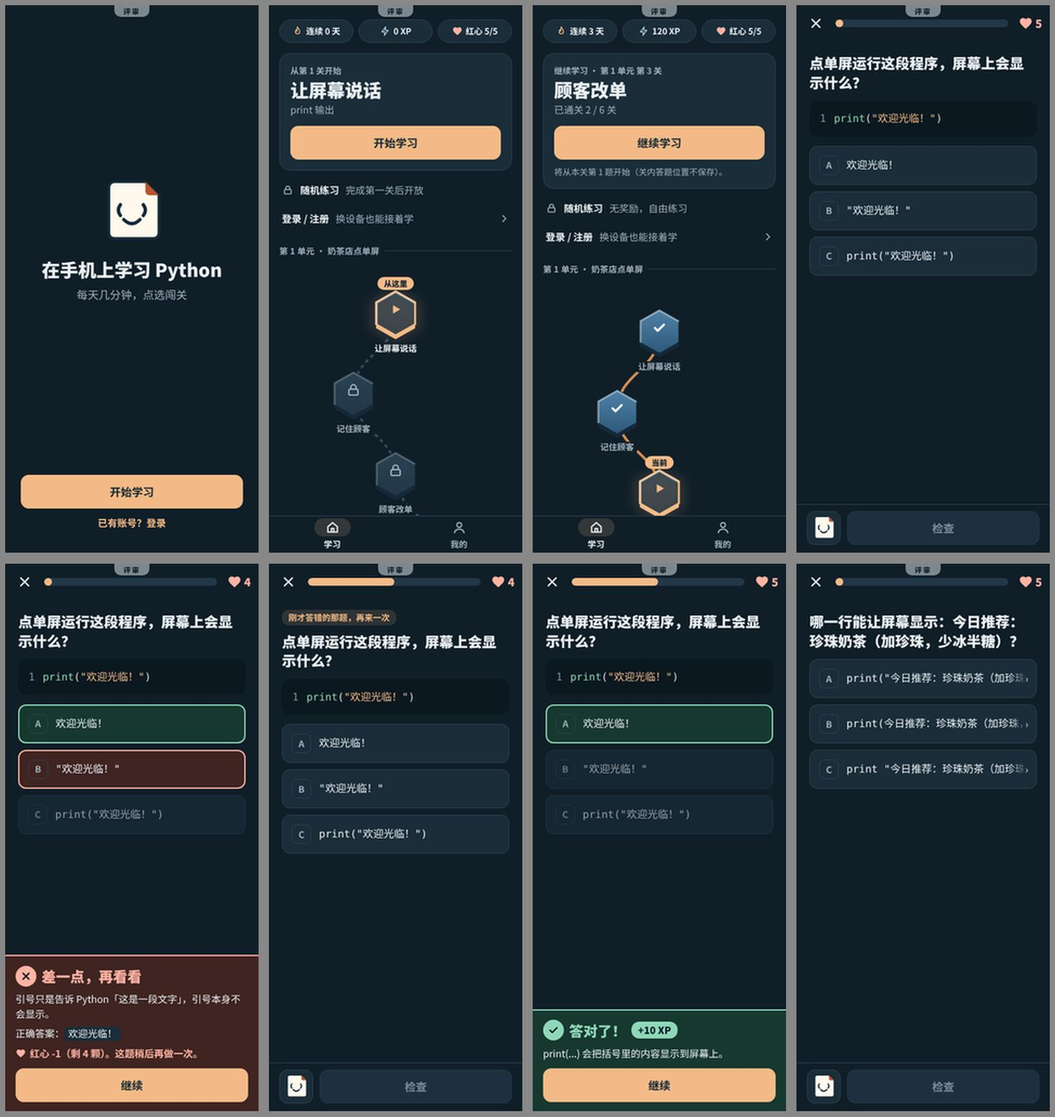
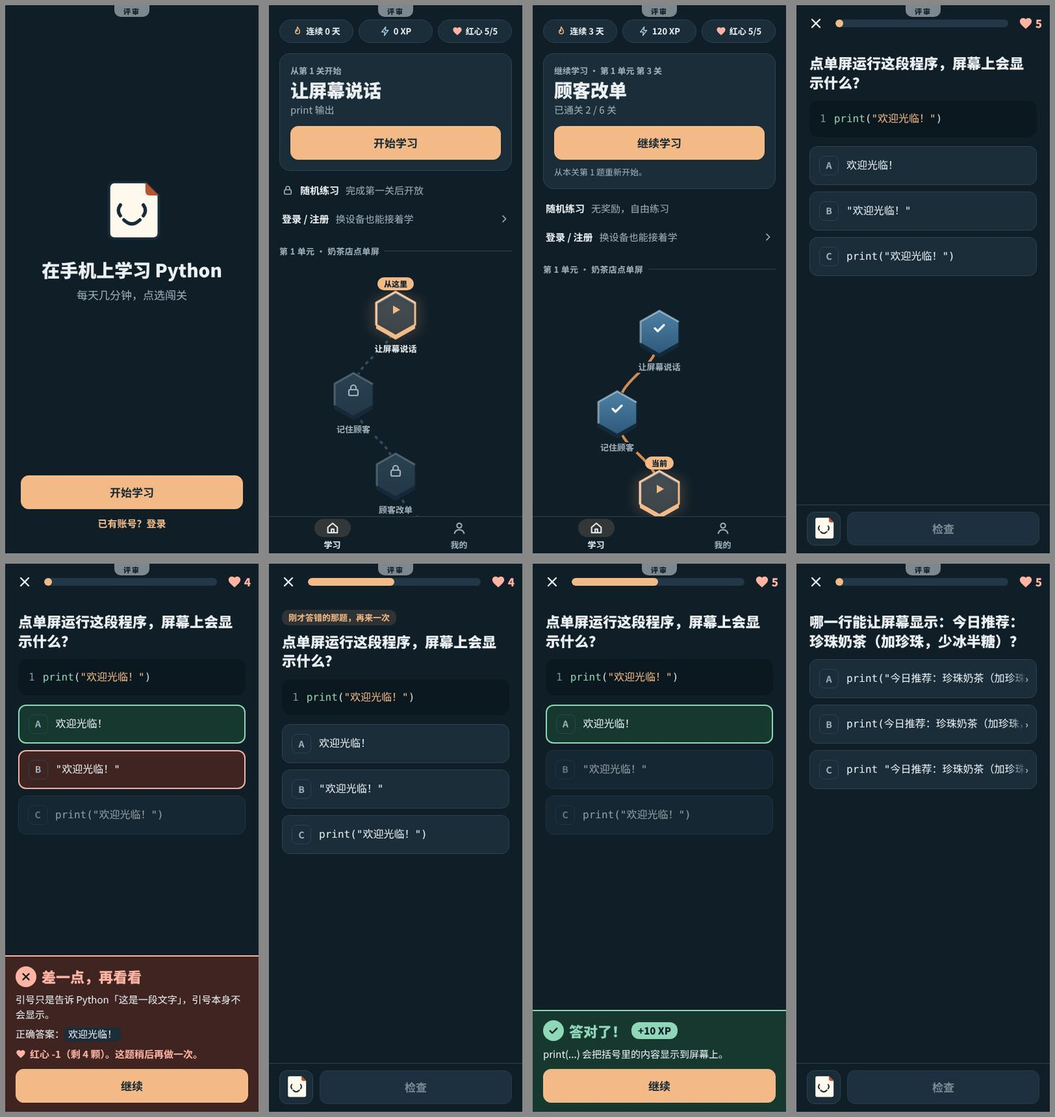
设计：流程原型按评审修订——欢迎直达首题、碎碎、320 线路对齐、红心不缩放、减少动态含按下、继续保留正式节奏
- 欢迎页默认直达首题；提示按钮 aria-label 与说明统一为「碎碎」
- 继续入口说明改为「从本关第 1 题重新开始」；老用户地图随机练习去掉锁图标
- 答错只留卡片抖动，红心直接更新；减少动态下按钮按下位移取消（改描边）
- 线路改为 x 拉伸、y 固定，实测 320/390 线路与节点中心偏差 0px，补 sheet-map-320.jpg
- 继续按钮保留正式节奏（120ms 揭示 / 280ms 开放），减少动态立即
- 文档：删除 XP 悬项，新增修订记录；检查 60 项全过

Claude-Session: https://claude.ai/code/session_01PV3FXumWa85dHsm4VFEBLY

diff --git a/spikes/2026-11-13-flow-prototype/index.html b/spikes/2026-11-13-flow-prototype/index.html
@@ -43,6 +43,7 @@ svg { display:block; }
 .btn:active:not(:disabled) { transform:translateY(1px); }
 .btn.primary { background:var(--copper); color:var(--on-copper); border-color:var(--copper); }
 .btn:disabled { background:var(--card2); color:var(--muted); border-color:var(--line); opacity:.75; cursor:default; }
+html.rm .btn:active:not(:disabled) { transform:none; outline:3px solid var(--copper); outline-offset:-3px; }
 .link { min-height:44px; color:var(--copper-text); font-weight:700; font-size:15px; padding:0 12px; }
 .icon-btn { width:44px; height:44px; display:grid; place-items:center; border-radius:12px; }
 .t13 { font-size:13px; font-weight:600; }
@@ -71,7 +72,8 @@ svg { display:block; }
 .unit { margin:18px 16px 0; font-size:13px; font-weight:700; color:var(--muted); display:flex; gap:8px; align-items:center; letter-spacing:.3px; }
 .unit::after { content:""; flex:1; height:1px; background:var(--line); }
 .path { position:relative; margin:0 auto; width:390px; max-width:100%; }
-.path svg.trace { position:absolute; inset:0; pointer-events:none; }
+.path svg.trace { position:absolute; left:0; top:0; width:100%; height:100%; pointer-events:none; }
+.path svg.trace path { vector-effect:non-scaling-stroke; }
 .node { position:absolute; width:76px; transform:translateX(-50%); display:flex; flex-direction:column; align-items:center; gap:4px; text-align:center; }
 .node .lab { background:var(--bg); padding:0 6px; border-radius:6px; font-size:13px; font-weight:700; line-height:1.3; white-space:nowrap; }
 .node.locked .lab { color:var(--muted); font-weight:600; }
@@ -97,8 +99,6 @@ html.rm .fill { transition:none; }
 @keyframes sweep { to { left:110%; } }
 html.rm .fill.sweep::after { display:none; }
 .hearts { display:flex; align-items:center; gap:4px; font-weight:800; font-size:17px; color:var(--bad); min-width:44px; justify-content:flex-end; }
-html:not(.rm) .hearts.lost svg { animation:heartlost .28s ease-out; }
-@keyframes heartlost { 30% { transform:scale(1.25); } 100% { transform:scale(1); } }
 .q { padding:12px 20px 16px; }
 .q h3 { margin:6px 0 14px; font-size:22px; line-height:1.35; font-weight:800; }
 .again { display:inline-block; font-size:13px; font-weight:700; color:var(--copper-text); background:color-mix(in srgb,var(--copper) 14%,transparent); padding:2px 10px; border-radius:10px; margin-bottom:4px; }
@@ -181,7 +181,7 @@ html.show-tags [data-tag=fixed]::after { background:var(--ok); color:var(--bg); 
 /* ===== 评审条目：状态 = 当前仍存在 / 已修复 / 本次提案（对照 main 92f57d9） ===== */
 const ITEMS = [
   { id:"W1", st:"proposal", t:"欢迎页压成一屏", d:"现状 3 屏、点 3 次才到地图；这里 1 屏 1 个主按钮。" },
-  { id:"W2", st:"proposal", t:"欢迎页文案", d:"「在手机上学习 Python」「每天几分钟，点选闯关」。不写「全程点选」「每关约 2 分钟」。名字仍叫小码（改名碎碎已批、未落地）。" },
+  { id:"W2", st:"proposal", t:"欢迎页文案", d:"「在手机上学习 Python」「每天几分钟，点选闯关」。不写「全程点选」「每关约 2 分钟」。角色名统一为「碎碎」（改名已批；正式版源码里仍是「小码」，落地时要一起改）。" },
   { id:"M1", st:"proposal", t:"地图「下一步」主卡", d:"新用户「开始学习」，老用户关名 +「继续学习」。关内位置 main 不保存（退出后从第 1 题重来），所以继续 = 当前关第 1 题；关内恢复未模拟。" },
   { id:"M2", st:"proposal", t:"随机练习 / 登录降级成一行", d:"现状：随机练习是吸顶整宽灰块，登录是虚线整宽卡。" },
   { id:"M3", st:"exists", t:"六边形路径（保留）", d:"沿用老大 11-04 方向；本次提案只加厚度、高光、当前关通电发光。" },
@@ -190,14 +190,14 @@ const ITEMS = [
   { id:"Q1", st:"fixed", t:"选项竖排整宽、代码不折行", d:"main 的 #60：.choices.code 单列 + 横向滚动，原型沿用，不算新成果。" },
   { id:"Q2", st:"proposal", t:"长代码选项的提示", d:"沿用 #60 的横向滚动，新增右侧渐变 + ›，提示还有内容（「长代码选项」可跳转查看）。" },
   { id:"Q3", st:"proposal", t:"铜橙 = 主要操作", d:"现状深色主按钮是浅蓝底（对比度 9.4，不低，但像禁用态且和整屏无主次）。原型主按钮、选中态、进度条都用铜橙：浅色白字 4.82:1，深色深字 9.24:1。" },
-  { id:"F1", st:"proposal", t:"答对：对勾弹出 + 进度条高光", d:"✓ 0→1.15→1（240ms）；进度条到位后一道高光扫过（300ms）。不拖延「继续」（立刻可点）。" },
-  { id:"F2", st:"exists", t:"XP 只在实际获得时出现", d:"main 现规则：每次答对 +10（复习 +5），含错题重做；答错不出现。原型按同一常量显示。重做是否再得 XP 以 app.js 1125 行的 addXp 为准，需程序员确认。" },
+  { id:"F1", st:"proposal", t:"答对：对勾弹出 + 进度条高光", d:"✓ 0→1.15→1（240ms）；进度条到位后一道高光扫过（300ms）。「继续」时序保留正式版：120ms 揭示结果、280ms 开放继续（减少动态下立即），本轮不改这项行为。" },
+  { id:"F2", st:"exists", t:"XP 只在实际获得时出现", d:"main 现规则：每次答对 +10（复习 +5），含错题重做；答错不出现。原型按同一常量显示。产品官已核对 app.js / storage.js：addXp 不按题去重，错题先答错未得分、随后答对正常 +10，无悬项。" },
   { id:"F3", st:"proposal", t:"连对提示不遮挡", d:"连对 ≥3 时在反馈头里加一枚「连对 N」小标，行内，不浮层。" },
   { id:"F4", st:"proposal", t:"答错措辞「差一点，再看看」", d:"现状标题「不对哦」。" },
   { id:"F5", st:"exists", t:"答错讲原因 + 正确答案 + 红心", d:"main 已有：错因（why）、「正确答案」、「红心 -1（剩 N 颗），这题稍后再做一次」。原型保留，不算新成果。" },
-  { id:"F6", st:"proposal", t:"答错只留一种主要动效", d:"选中卡抖 2 次（±5px，220ms）；碎碎只换静态表情，不弹跳。现状卡抖 3px 160ms，碎碎无反应。" },
+  { id:"F6", st:"proposal", t:"答错只留一种主要动效", d:"只留选中卡抖 2 次（±5px，220ms）；碎碎只换静态表情；红心直接更新数值，不再缩放（正式版现有红心缩放动画）。现状卡抖 3px 160ms。" },
   { id:"F7", st:"proposal", t:"继续按钮统一铜橙", d:"现状答错时「继续」是红色危险按钮；这里改铜橙，反馈色只用在面板描边和标题。" },
-  { id:"R1", st:"exists", t:"减少动态效果", d:"main 已有 prefers-reduced-motion。原型：开启后取消位移、缩放、飞行、发光呼吸、高光扫过，只保留颜色变化。" },
+  { id:"R1", st:"exists", t:"减少动态效果", d:"main 已有 prefers-reduced-motion。原型：开启后取消位移、缩放、飞行、发光呼吸、高光扫过、按钮按下的 1px 下移（按下改用描边表示），只保留颜色变化。" },
 ];
 const $ = (s, r=document) => r.querySelector(s);
 const ITEM = Object.fromEntries(ITEMS.map(i => [i.id, i]));
@@ -248,7 +248,7 @@ const XP_CORRECT = 10; /* 与 src/app.js 的 XP_CORRECT 一致 */
 const LESSONS = ["让屏幕说话","记住顾客","顾客改单","算价格","加一杯","结账小票"];
 
 /* ===== 状态 ===== */
-const S = { screen:"welcome", user:"new", welcomeGo:"map", queue:[], total:2, solved:0, hearts:5, xp:0, streak:0, sel:null, fb:null, retry:false, hint:false, forceStreak:false, theme:"auto", motion:"auto", tags:false, cur:null, cleared:0 };
+const S = { screen:"welcome", user:"new", welcomeGo:"task", queue:[], total:2, solved:0, hearts:5, xp:0, streak:0, sel:null, fb:null, retry:false, hint:false, forceStreak:false, theme:"auto", motion:"auto", tags:false, cur:null, cleared:0, ver:0, checking:false };
 const root = document.documentElement;
 function applyEnv() {
   const dark = S.theme==="dark" || (S.theme==="auto" && matchMedia("(prefers-color-scheme: dark)").matches);
@@ -262,7 +262,7 @@ let tt; function toast(m){ const e=$("#toast"); e.textContent=m; e.classList.add
 
 /* ===== 渲染 ===== */
 const app = $("#app");
-function go(screen) { S.screen = screen; render(); }
+function go(screen) { S.ver++; S.checking = false; S.screen = screen; render(); }
 function render() {
   applyEnv();
   const f = { welcome, map, lesson, done }[S.screen]; app.innerHTML = ""; f();
@@ -285,13 +285,13 @@ function map() {
   const hud = `<div class="hud"${tagAttr("M4")}>
     <div class="chip flame">${I.flame(16)}连续 ${old?3:0} 天</div><div class="chip bolt">${I.bolt(16)}${old?120:S.xp} XP</div><div class="chip heart">${I.heart(16)}红心 ${S.hearts}/5</div></div>`;
   const hero = old
-    ? `<div class="hero"${tagAttr("M1")}><div class="eyebrow">继续学习 · 第 1 单元 第 3 关</div><h2>${LESSONS[2]}</h2><div class="sub">已通关 2 / 6 关</div><button class="btn primary" id="go">继续学习</button><p class="note">将从本关第 1 题开始（关内答题位置不保存）。</p></div>`
+    ? `<div class="hero"${tagAttr("M1")}><div class="eyebrow">继续学习 · 第 1 单元 第 3 关</div><h2>${LESSONS[2]}</h2><div class="sub">已通关 2 / 6 关</div><button class="btn primary" id="go">继续学习</button><p class="note">从本关第 1 题重新开始。</p></div>`
     : `<div class="hero"${tagAttr("M1")}><div class="eyebrow">从第 1 关开始</div><h2>${LESSONS[0]}</h2><div class="sub">print 输出</div><button class="btn primary" id="go">开始学习</button></div>`;
   const rows = `<div class="rows"${tagAttr("M2")}>
-    <button class="row" id="prac"><span style="color:var(--muted)">${I.lock(18)}</span><b>随机练习</b><span>${old?"无奖励，自由练习":"完成第一关后开放"}</span><span class="sp"></span></button>
+    <button class="row" id="prac">${old?"":`<span style="color:var(--muted)">${I.lock(18)}</span>`}<b>随机练习</b><span>${old?"无奖励，自由练习":"完成第一关后开放"}</span><span class="sp"></span></button>
     <button class="row" id="log"><b>登录 / 注册</b><span>换设备也能接着学</span><span class="sp"></span>${I.chev(16)}</button></div>`;
   const xs = [195,130,195,260,195,130], dy = 124, y0 = 50, H = y0 + dy*5 + 130;
-  const pts = xs.map((x,i)=>[x, y0+i*dy+36]);
+  const pts = xs.map((x,i)=>[x, y0+i*dy+38]);
   const seg = (a,b)=>{ const m=(a[1]+b[1])/2; return `C ${a[0]} ${m}, ${b[0]} ${m}, ${b[0]} ${b[1]}`; };
   let full = `M ${pts[0][0]} ${pts[0][1]}`, lit = full;
   for (let i=1;i<pts.length;i++){ full += " "+seg(pts[i-1],pts[i]); if (i<=curIdx) lit += " "+seg(pts[i-1],pts[i]); }
@@ -299,7 +299,7 @@ function map() {
     return `<button class="node ${k}" data-i="${i}" style="left:${(xs[i]/390*100).toFixed(2)}%;top:${y0+i*dy}px" aria-label="${n}（${k==="done"?"已通关":k==="current"?"当前关":"未解锁"}）"><div class="hexwrap">${k==="current"?`<svg class="glow" viewBox="0 0 88 94"><polygon points="44,6 82,26 82,68 44,88 6,68 6,26"/></svg>`:""}${hex(k)}${k==="current"?`<span class="tag-now">${old?"当前":"从这里"}</span>`:""}</div><span class="lab">${n}</span></button>`; }).join("");
   const s = el(`<div class="screen"><div class="scroll">${hud}${hero}${rows}
     <div class="unit"${tagAttr("M5")}>第 1 单元 · 奶茶店点单屏</div>
-    <div class="path" style="height:${H}px"${tagAttr("M3")}><svg class="trace" viewBox="0 0 390 ${H}" preserveAspectRatio="xMidYMin meet" aria-hidden="true">
+    <div class="path" style="height:${H}px"${tagAttr("M3")}><svg class="trace" viewBox="0 0 390 ${H}" preserveAspectRatio="none" aria-hidden="true">
       <path d="${full}" fill="none" stroke="var(--trace)" stroke-width="4" stroke-dasharray="2 9" stroke-linecap="round"/>
       ${curIdx>0?`<path d="${lit}" fill="none" stroke="var(--trace-on)" stroke-width="4" stroke-linecap="round"/>`:""}
       ${pts.map(p=>`<circle cx="${p[0]}" cy="${p[1]}" r="0"/>`).join("")}</svg>${nodes}</div></div>
@@ -320,13 +320,13 @@ function startLesson(which) {
 function lesson() {
   const key = S.fb ? S.fb.key : S.queue[0]; if (!key) return go("done");
   const q = Q[key], pct = Math.round(S.solved / S.total * 100); const prev = S.prevPct!=null && S.prevPct!==pct ? S.prevPct : pct; S.prevPct = null;
-  const fb = S.fb;
+  const fb = S.checking ? null : S.fb;
   const opts = q.opts.map((o,i)=>{
     let cls = "choice"; if (fb) { if (o.ok) cls += " right"; else if (i===fb.picked) cls += " wrong"; else cls += " dim"; } else if (i===S.sel) cls += " sel";
     return `<button class="${cls}" data-i="${i}" ${fb?"disabled":""} aria-label="选项 ${"ABC"[i]}：${o.t.replace(/\n/g," 换行 ")}"><span class="abc">${"ABC"[i]}</span><span class="opt"><pre>${esc(o.t)}</pre></span><span class="fade" aria-hidden="true">›</span></button>`; }).join("");
   const code = q.code ? `<div class="code"><div class="ln">${q.code.split("\n").map((_,i)=>i+1).join("\n").replace(/\n/g,"<br>")}</div><pre>${hl(q.code)}</pre></div>` : "";
   const mood = fb && !fb.ok ? "care" : "happy";
-  const foot = fb ? feedbar() : `<div class="lessonfoot"><button class="mascot" id="hint" aria-label="让小码给个提示">${mascot(40, mood)}</button><button class="btn primary" id="check" ${S.sel==null?"disabled":""}${tagAttr("Q3")}>检查</button></div>`;
+  const foot = fb ? feedbar() : `<div class="lessonfoot"><button class="mascot" id="hint" aria-label="让碎碎给个提示">${mascot(40, mood)}</button><button class="btn primary" id="check" ${S.sel==null||S.checking?"disabled":""}${tagAttr("Q3")}>${S.checking?"检查中":"检查"}</button></div>`;
   const s = el(`<div class="screen"><header class="lessonbar"><button class="icon-btn" id="x" aria-label="退出本关">${I.close()}</button>
     <div class="progress" role="progressbar" aria-valuenow="${pct}" aria-valuemin="0" aria-valuemax="100"><div class="fill ${S.sweepNow?"sweep":""}" style="width:${Math.max(4,prev)}%"${tagAttr("F1")}></div></div>
     <span class="hearts ${S.lostNow?"lost":""}" aria-label="红心 ${S.hearts}">${I.heart(22)}${S.hearts}</span></header>
@@ -335,7 +335,7 @@ function lesson() {
   S.sweepNow = false; S.lostNow = false;
   app.append(s);
   if (prev!==pct) requestAnimationFrame(()=>requestAnimationFrame(()=>{ const f=$(".fill",s); if(f) f.style.width=Math.max(4,pct)+"%"; }));
-  s.querySelectorAll(".choice").forEach(b=>b.onclick=()=>{ if (S.fb) return; S.sel=+b.dataset.i; lesson_re(); });
+  s.querySelectorAll(".choice").forEach(b=>b.onclick=()=>{ if (S.fb||S.checking) return; S.sel=+b.dataset.i; lesson_re(); });
   // 长代码选项：内容比盒子宽时显示右侧渐变提示，滚到头就隐藏
   s.querySelectorAll(".choice").forEach(b=>{ const o=b.querySelector(".opt"); const upd=()=>b.classList.toggle("more", o.scrollWidth>o.clientWidth+2 && o.scrollLeft+o.clientWidth<o.scrollWidth-2); upd(); o.addEventListener("scroll",upd,{passive:true}); requestAnimationFrame(upd); });
   $("#x",s).onclick = () => go("map");
@@ -351,7 +351,12 @@ function check(key) {
   else { S.hearts--; S.streak = 0; S.queue.push(key); S.lostNow = true; }
   S.queue.shift();
   S.fb = { key, ok, picked:S.sel, why:o.why, xp: ok?XP_CORRECT:0, streak:S.streak, correct:q.opts.find(x=>x.ok).t };
-  lesson_re();
+  /* 时序对照正式版 app.js：点「检查」→ 120ms 揭示结果 → 280ms 开放「继续」；减少动态效果下立即 */
+  const rmNow = root.classList.contains("rm"), ver = ++S.ver;
+  if (rmNow || S.instant) { S.fb.ready = true; return lesson_re(); }
+  S.checking = true; lesson_re();
+  setTimeout(()=>{ if (S.ver!==ver) return; S.checking = false; lesson_re(); }, 120);
+  setTimeout(()=>{ if (S.ver!==ver || !S.fb) return; S.fb.ready = true; const c=$("#cont",app); if (c) c.disabled = false; }, 280);
 }
 function feedbar() {
   const f=S.fb, last = S.queue.length===0;
@@ -359,10 +364,10 @@ function feedbar() {
     <div class="fb-head"><span class="fb-ico">${f.ok?I.check(18):I.cross(18)}</span>${f.ok?"答对了！":"差一点，再看看"}${f.ok?`<span class="fb-xp"${tagAttr("F2")}>+${f.xp} XP</span>`:""}${f.ok&&f.streak>=3?`<span class="fb-streak"${tagAttr("F3")}>连对 ${f.streak}</span>`:""}</div>
     <p>${f.why}</p>
     ${f.ok?"":`<p${tagAttr("F5")}>正确答案：<code>${esc(f.correct)}</code></p><p class="heartline">${I.heart(16)}红心 -1（剩 ${S.hearts} 颗）。这题稍后再做一次。</p>`}
-    <button class="btn primary" id="cont"${tagAttr("F7")}>${last?"完成本关":"继续"}</button></div>`;
+    <button class="btn primary" id="cont" ${f.ready?"":"disabled"}${tagAttr("F7")}>${last?"完成本关":"继续"}</button></div>`;
 }
 function next() {
-  const wasWrong = S.fb && !S.fb.ok; S.fb=null; S.sel=null; S.hint=false;
+  S.ver++; S.checking=false; const wasWrong = S.fb && !S.fb.ok; S.fb=null; S.sel=null; S.hint=false;
   S.retry = !!S.queue.length && S.queue[0]==="q1" && S.queue.length===1 && S.solved>=1 && !S.demo;
   if (!S.queue.length) return go("done");
   lesson_re();
@@ -382,8 +387,8 @@ function jump(name) {
   if (name==="map-old") { S.user="old"; S.hearts=5; return go("map"); }
   if (name==="q1") return startLesson();
   if (name==="long") return startLesson("ql");
-  if (name==="wrong") { startLesson(); S.sel=1; check("q1"); return; }
-  if (name==="right") { startLesson(); S.sel=0; check("q1"); return; }
+  if (name==="wrong") { startLesson(); S.sel=1; S.instant=true; check("q1"); S.instant=false; return; }
+  if (name==="right") { startLesson(); S.sel=0; S.instant=true; check("q1"); S.instant=false; return; }
   if (name==="retry") { S.queue=["q1"]; S.total=2; S.solved=1; S.hearts=4; S.retry=true; S.demo=false; S.fb=null; S.sel=null; return go("lesson"); }
   if (name==="done") return go("done");
 }
@@ -394,7 +399,7 @@ function rv() {
   ${seg("主题","theme",[["auto","跟随系统"],["light","浅色"],["dark","深色"]])}
   ${seg("减少动态效果","motion",[["auto","跟随系统"],["on","开"],["off","关"]])}
   ${seg("标注（每项：本次提案 / 仍存在 / 已修复）","tags",[[true,"显示"],[false,"隐藏"]])}
-  ${seg("欢迎页按钮去向","welcomeGo",[["map","先到地图（按派单流程）"],["task","直达首题（W1 的更短方案）"]])}
+  ${seg("欢迎页按钮去向","welcomeGo",[["task","直达首题（产品官 01:12 已定，默认）"],["map","先到地图（对照）"]])}
   ${seg("模拟连对（下次答对显示「连对 3」）","forceStreak",[[true,"开"],[false,"关"]])}
   <h4>条目与状态（对照 main 92f57d9）</h4><div class="legend">${legend}</div>`;
   $("#rv").querySelectorAll("[data-j]").forEach(b=>b.onclick=()=>jump(b.dataset.j));
@@ -406,7 +411,7 @@ $("#rvOpen").onclick = openRv; $("#rvScrim").onclick = e => { if (e.target.id===
 /* 地址参数：?s=welcome|map-new|map-old|q1|wrong|retry|right|long|done  &theme=dark  &motion=on  &tags=1  （截图和评审直达用） */
 { const p = new URLSearchParams(location.search);
   if (p.get("theme")) S.theme = p.get("theme"); if (p.get("motion")) S.motion = p.get("motion"); if (p.get("tags")) S.tags = true;
-  if (p.get("streak")) S.forceStreak = true; if (p.get("go")==="task") S.welcomeGo = "task";
+  if (p.get("streak")) S.forceStreak = true; if (p.get("go")==="map") S.welcomeGo = "map";
   render(); if (p.get("s")) jump(p.get("s")); }
 window.ITEMS = ITEMS;
 </script>

diff --git a/docs/design/flow-prototype-2026-11-13.md b/docs/design/flow-prototype-2026-11-13.md
@@ -1,5 +1,7 @@
 # 可点流程原型（设计师，2026-11-13）
 
+> 版本：首轮评审（产品官 01:12）后的修订版。首轮 SHA `226a050`。
+
 主责：设计师（Claude Sonnet）。派单：产品官 2026-11-13 00:59。范围（老大已批）：评估报告 `docs/design/fable-review-2026-11-12.md` 的「一.1–5、二.1–3」，保留六边形节点。
 **只做界面和交互的原型，不碰业务代码、不改 XP / 红心 / 连续天数 / 解锁规则。正式采用哪些，等产品官评审原型后定。**
 
@@ -15,15 +17,15 @@
 
 ## 流程（按派单）
 欢迎 → 地图 → 首题 → 答错 → （继续）第 2 题答对 → 重做刚才答错的那题答对 → 通关占位 → 回地图。
-- **「重试答对」按现行规则做成「错题排到最后再做一次」**（`app.js` 的 `run.queue.push(idx)`），所以重做出现在第 2 题之后，不是答错后立刻重试。如果产品官要「答错后立刻重试」，那是规则改动，要老大同意并写进 SPEC 决策记录。
-- 欢迎页按钮默认去地图；面板里可切成「直达首题」（W1 更短的方案，少点一次）。
+- **错题按现行规则「排到本关末尾再做」**（`app.js` 的 `run.queue.push(idx)`，产品官 01:12 已定保持），所以重做出现在第 2 题之后。
+- **欢迎页「开始学习」默认直达首个学习任务**（产品官 01:12 已定）；地图用于退出关卡、完成学习后看路线。评审面板里可切成「先到地图」做对照。
 - 通关页不在本轮范围，只放占位。
 
 ## 逐项状态（对照 main `92f57d9`）
 | 编号 | 状态 | 项 | 说明 |
 |---|---|---|---|
 | W1 | **本次提案** | 欢迎页压成一屏 | 现状 3 屏、点 3 次才到地图；这里 1 屏 1 个主按钮。 |
-| W2 | **本次提案** | 欢迎页文案 | 「在手机上学习 Python」「每天几分钟，点选闯关」。不写「全程点选」「每关约 2 分钟」。名字仍叫小码（改名碎碎已批、未落地）。 |
+| W2 | **本次提案** | 欢迎页文案 | 「在手机上学习 Python」「每天几分钟，点选闯关」。不写「全程点选」「每关约 2 分钟」。角色名统一为「碎碎」（改名已批；正式版源码里仍是「小码」，落地时要一起改）。 |
 | M1 | **本次提案** | 地图「下一步」主卡 | 新用户「开始学习」，老用户关名 +「继续学习」。关内位置 main 不保存（退出后从第 1 题重来），所以继续 = 当前关第 1 题；关内恢复未模拟。 |
 | M2 | **本次提案** | 随机练习 / 登录降级成一行 | 现状：随机练习是吸顶整宽灰块，登录是虚线整宽卡。 |
 | M3 | 当前仍存在 | 六边形路径（保留） | 沿用老大 11-04 方向；本次提案只加厚度、高光、当前关通电发光。 |
@@ -32,18 +34,18 @@
 | Q1 | 已修复 | 选项竖排整宽、代码不折行 | main 的 #60：.choices.code 单列 + 横向滚动，原型沿用，不算新成果。 |
 | Q2 | **本次提案** | 长代码选项的提示 | 沿用 #60 的横向滚动，新增右侧渐变 + ›，提示还有内容（「长代码选项」可跳转查看）。 |
 | Q3 | **本次提案** | 铜橙 = 主要操作 | 现状深色主按钮是浅蓝底（对比度 9.4，不低，但像禁用态且和整屏无主次）。原型主按钮、选中态、进度条都用铜橙：浅色白字 4.82:1，深色深字 9.24:1。 |
-| F1 | **本次提案** | 答对：对勾弹出 + 进度条高光 | ✓ 0→1.15→1（240ms）；进度条到位后一道高光扫过（300ms）。不拖延「继续」（立刻可点）。 |
-| F2 | 当前仍存在 | XP 只在实际获得时出现 | main 现规则：每次答对 +10（复习 +5），含错题重做；答错不出现。原型按同一常量显示。重做是否再得 XP 以 app.js 1125 行的 addXp 为准，需程序员确认。 |
+| F1 | **本次提案** | 答对：对勾弹出 + 进度条高光 | ✓ 0→1.15→1（240ms）；进度条到位后一道高光扫过（300ms）。「继续」时序保留正式版：120ms 揭示结果、280ms 开放继续（减少动态下立即），本轮不改这项行为。 |
+| F2 | 当前仍存在 | XP 只在实际获得时出现 | main 现规则：每次答对 +10（复习 +5），含错题重做；答错不出现。原型按同一常量显示。产品官已核对 app.js / storage.js：addXp 不按题去重，错题先答错未得分、随后答对正常 +10，无悬项。 |
 | F3 | **本次提案** | 连对提示不遮挡 | 连对 ≥3 时在反馈头里加一枚「连对 N」小标，行内，不浮层。 |
 | F4 | **本次提案** | 答错措辞「差一点，再看看」 | 现状标题「不对哦」。 |
 | F5 | 当前仍存在 | 答错讲原因 + 正确答案 + 红心 | main 已有：错因（why）、「正确答案」、「红心 -1（剩 N 颗），这题稍后再做一次」。原型保留，不算新成果。 |
-| F6 | **本次提案** | 答错只留一种主要动效 | 选中卡抖 2 次（±5px，220ms）；碎碎只换静态表情，不弹跳。现状卡抖 3px 160ms，碎碎无反应。 |
+| F6 | **本次提案** | 答错只留一种主要动效 | 只留选中卡抖 2 次（±5px，220ms）；碎碎只换静态表情；红心直接更新数值，不再缩放（正式版现有红心缩放动画）。现状卡抖 3px 160ms。 |
 | F7 | **本次提案** | 继续按钮统一铜橙 | 现状答错时「继续」是红色危险按钮；这里改铜橙，反馈色只用在面板描边和标题。 |
-| R1 | 当前仍存在 | 减少动态效果 | main 已有 prefers-reduced-motion。原型：开启后取消位移、缩放、飞行、发光呼吸、高光扫过，只保留颜色变化。 |
+| R1 | 当前仍存在 | 减少动态效果 | main 已有 prefers-reduced-motion。原型：开启后取消位移、缩放、飞行、发光呼吸、高光扫过、按钮按下的 1px 下移（按下改用描边表示），只保留颜色变化。 |
 
 ## 已核对的事实（来自 main，不是推测）
-- 答对每次 +10 XP（`XP_CORRECT`），复习 +5；含「错题重做」答对。答错不出现 XP。原型按同一常量显示，**不是固定文案**。重做时 `addXp(state, gain, lessonId, !review)` 是否对同一题重复计 XP，我没读 `addXp` 内部，需程序员确认；原型只按「每次答对 +10」显示。
-- 退出关卡后「本关答题位置不会保存，下次从第 1 题重新开始」（`confirmExit` 文案）。所以地图「继续学习」只能到当前关第 1 题；**关内位置恢复不存在，原型没有模拟**，地图卡上写明了。
+- 答对每次 +10 XP（`XP_CORRECT`），复习 +5；答错不出现 XP。原型按同一常量显示，**不是固定文案**。产品官已核对 app.js / storage.js：`addXp` 不按题去重，错题先答错未得分、随后答对正常 +10，没有悬项。
+- 退出关卡后本关答题位置不保存（`confirmExit` 文案）。所以地图「继续学习」只能到当前关第 1 题；**关内位置恢复不存在，原型没有模拟**。卡片上的说明按产品官要求写成「从本关第 1 题重新开始」，不写实现原因。
 - 答错已有错因、正确答案、红心 -1 提示（`feedbar`）。原型保留这些，只改标题措辞、按钮颜色和动效数量。
 - 现状深色主按钮（浅蓝底深字）对比度其实是 9.4:1，不低。我在评估里说它「像禁用态」是指观感，不是对比度不足；原型换铜橙是为了让主操作和选中态、进度条一致。
 
@@ -57,14 +59,23 @@
 | 深色：次要文字对卡片 | 6.42:1 |
 按钮文字颜色以可读为准：浅色用白字、深色用深字，没有预先锁死白字。
 
+## 修订记录（首轮评审后）
+- 欢迎页默认直达首题；角色名「小码」→「碎碎」（提示按钮的 aria-label 与说明）；继续入口说明改为「从本关第 1 题重新开始」。
+- 老用户地图里随机练习已开放，去掉锁图标；新用户未开放仍显示锁。
+- 答错只留卡片抖动一种动效，红心直接更新数值（不再缩放）。
+- 减少动态效果下，按钮按下的 1px 下移也取消，改用描边表示按下（已读取计算样式确认：正常 `translateY(1px)`，减少动态 `none` + `outline: solid`）。
+- 补 320 宽地图截图，并**实测线路与节点对齐**：线路改为 x 随宽度拉伸、y 固定，量出每个节点中心与线路的水平偏差，320 与 390 全是 0px（首版线路是整体缩放，窄屏会和节点错位）。
+- 「继续」时序改为保留正式版节奏作对照：点「检查」→ 120ms 后揭示结果 → 280ms 后开放「继续」（减少动态下立即）。本轮不改这项行为。
+
 ## 已做的检查（模拟，不是真机）
-- Chromium 390×844：整条流程自动点一遍（45 项检查，390 / 390 减少动态 / 320×568 三种环境全通过）：欢迎文案、地图主卡与顶栏单位、答错反馈内容且无 XP、答错抖动、答对 +10 与对勾弹出、「继续」立即可点、重做提示、「完成本关」、回地图、320 宽无横向溢出、长代码选项出现滚动提示、无脚本错误。
-- 减少动态效果下：答错抖动、对勾弹出、发光呼吸、进度高光扫过全部取消（测试读取了计算样式的 animation-name）。
-- 截图：`docs/design/flow-prototype/` 下 4 张拼图——浅色、深色、深色+减少动态（各含 欢迎 / 地图新用户 / 地图老用户 / 首题 / 答错 / 重做 / 答对 / 长代码选项）和一张带标注的深色拼图。
+- Chromium：整条流程自动点一遍（60 项检查，390 / 390 减少动态 / 320×568 三种环境全通过）：欢迎页直达首题、答错反馈内容且无 XP、红心无缩放、答错抖动、答对 +10 与对勾弹出、「继续」时序（正式节奏 / 减少动态立即）、重做提示、「完成本关」、回地图、老 / 新用户地图的锁图标、320 宽无横向溢出、长代码选项滚动提示、无脚本错误。
+- 减少动态效果下：答错抖动、对勾弹出、发光呼吸、进度高光扫过、按钮按下位移全部取消（读取了计算样式）。
+- 截图：`docs/design/flow-prototype/` 下拼图——浅色、深色、深色+减少动态（各含 欢迎 / 地图新用户 / 地图老用户 / 首题 / 答错 / 重做 / 答对 / 长代码选项）、带标注的深色拼图、`sheet-map-320.jpg`（320 与 390 宽的地图并排：新用户、老用户）。
 
 ## 没验证的（要如实带着）
 - iPhone Safari / 主屏幕 App 真机；动效手感（时长、曲线）只能真机判断。
 - 键盘弹出状态：本原型没有输入框，不涉及；写代码题的键盘布局不在本轮。
 - 六边形的「加厚 / 高光 / 发光」只在 Chromium 渲染过；iOS Safari 上 `filter: blur` 的发光和 `color-mix` 没验证。
 - 通关页、写代码题、填空题、排序题没做。
+- 正式版里角色名仍是「小码」，原型改「碎碎」只是设计提案，落地时要连同 `src/app.js` 约 10 处文案一起改。
 - 原型不是正式代码：没有存档、没有真实判题；题目选项是 U1L1 原文，但「答对 / 答错」由选项里的 `ok` 字段决定，不是真实运行 Python。
